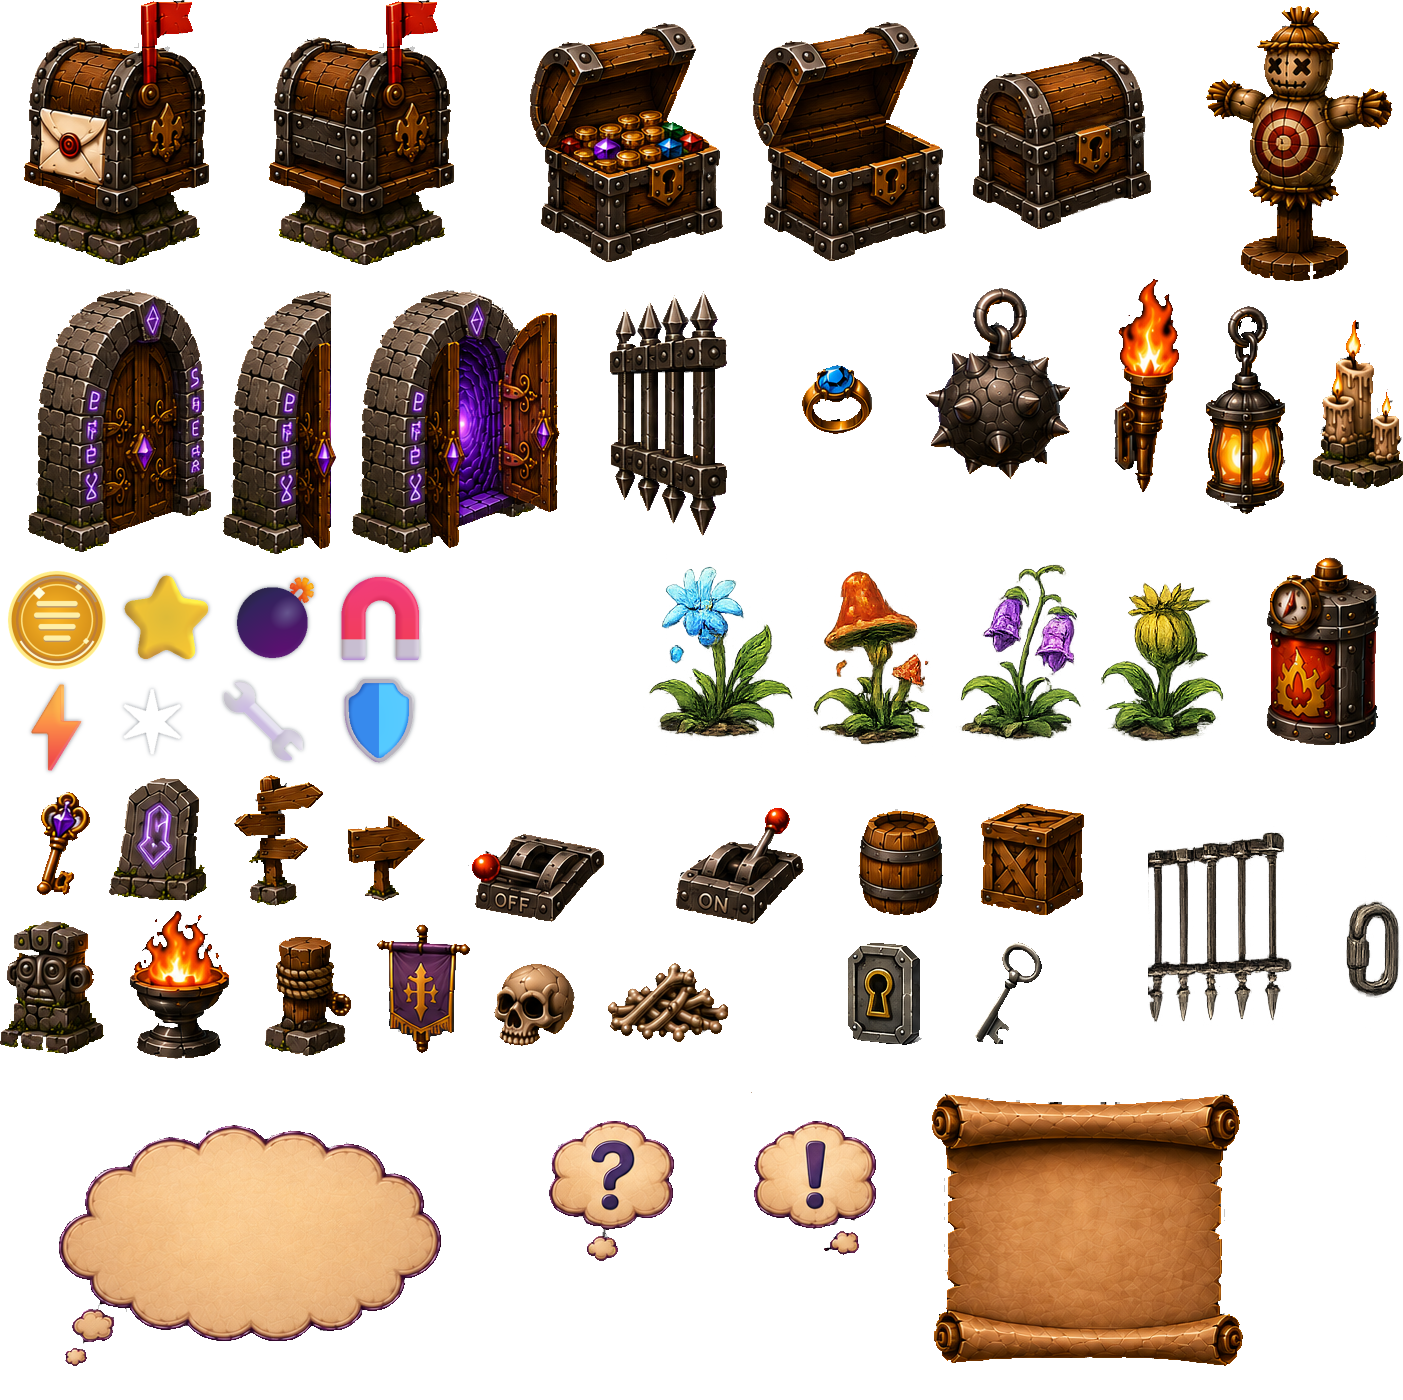
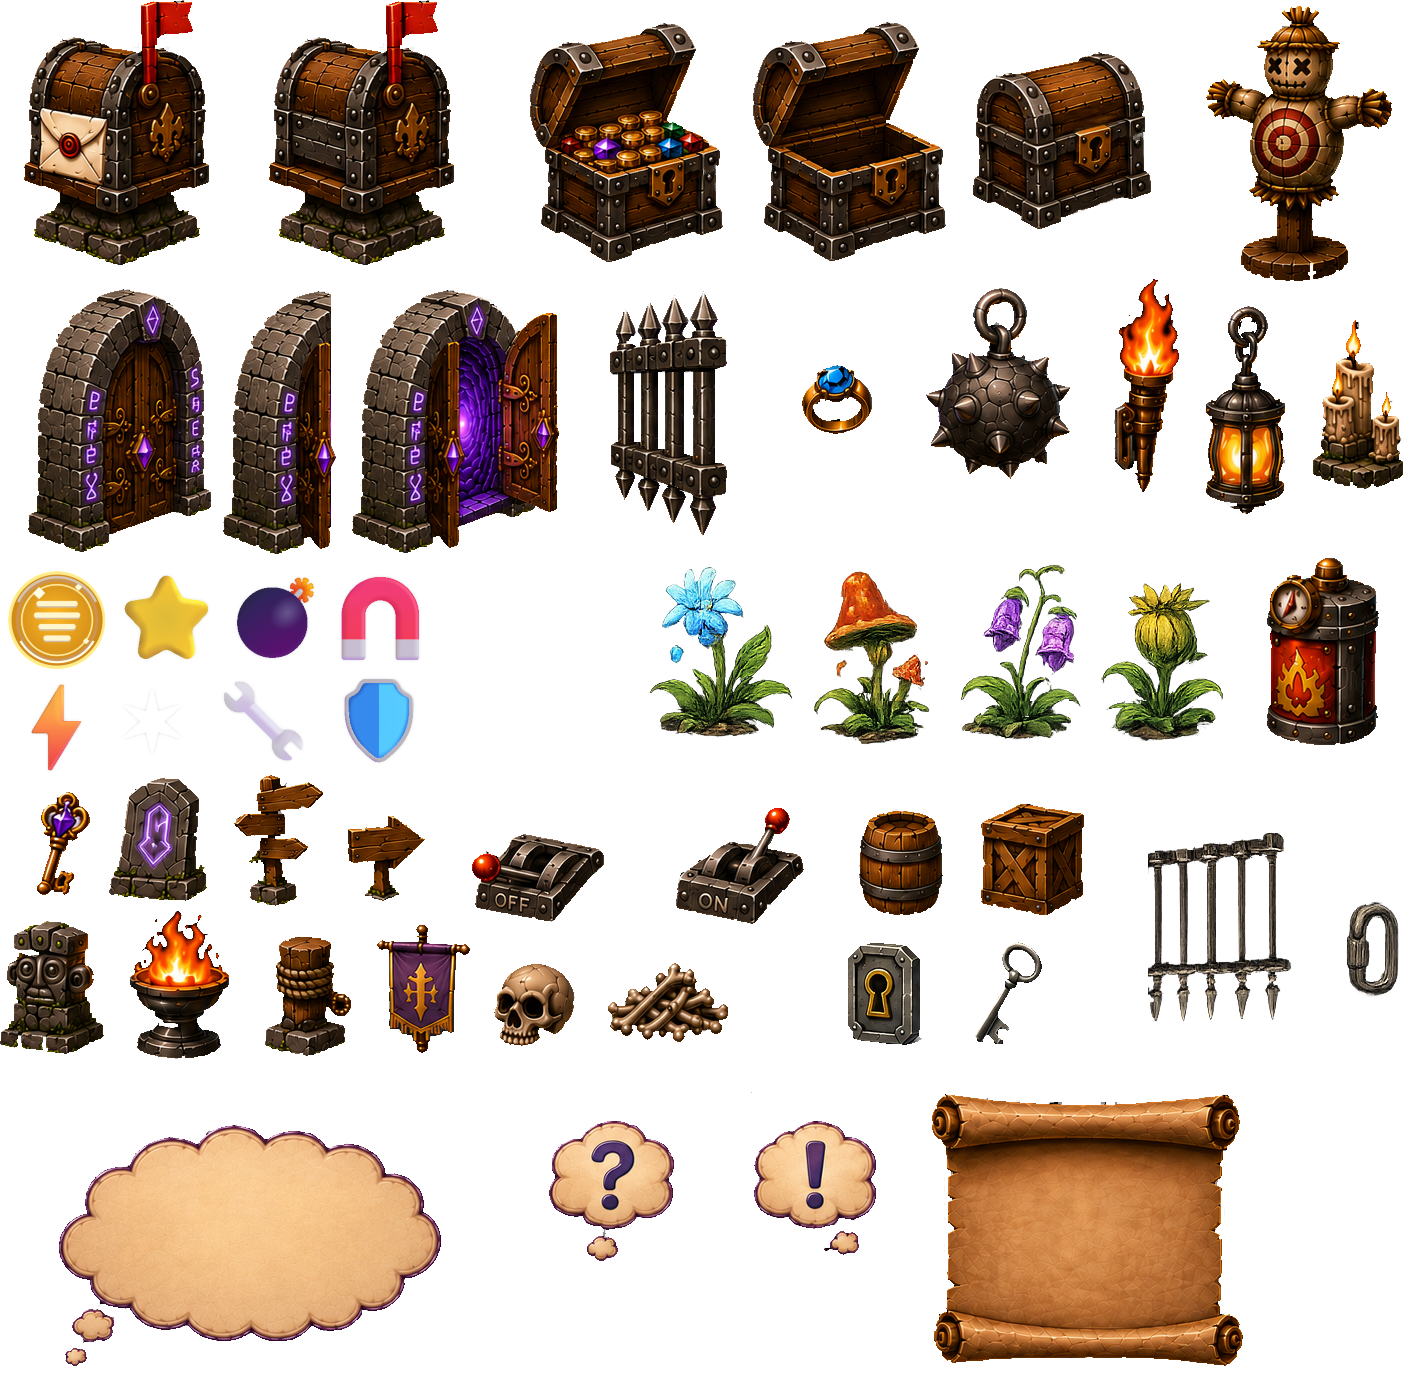
IR 223 and a minimal adjustment of door graphics

Changed region(s): [[0.0, 0.3993, 0.0919, 0.4914], [0.2145, 0.43, 0.2452, 0.4607]]

diff --git a/IgnatiusRocketfrock_JS/src/presentation/canvas-renderer.js b/IgnatiusRocketfrock_JS/src/presentation/canvas-renderer.js
@@ -23,7 +23,11 @@ import {
     colorMapCacheKey,
     normalizeLevelColorMap
 } from "../shared/level-color-map-data.js";
-import { powerUpEffectDefinition } from "../shared/power-up-data.js";
+import {
+    POWER_UP_EFFECT_IDS,
+    activePowerUpEffect,
+    powerUpEffectDefinition
+} from "../shared/power-up-data.js";
 import { createColorMappedCanvas } from "./level-color-map-cache.js";
 import { computeCaveWindowParallaxOffset, drawCaveWindowMask } from "./cave-window-mask.js";
 import {
@@ -283,6 +287,7 @@ export async function createRenderer(canvas, options = {}) {
     playerProject.rig = normalizeRigConfig(playerProject.rig);
     for (const asset of playerProject.assets.values()) {
         asset.lowHealthCanvas = makeTintedSpriteCanvas(asset.canvas, "#f04b45");
+        asset.shieldCanvas = makeTintedSpriteCanvas(asset.canvas, "#008cff");
     }
 
     const characterProjects = new Map();
@@ -2480,11 +2485,13 @@ class RocketfrockRenderer {
     }
 
     drawRigPose(screenX, screenGroundY, facing, pose, state, zoom, bounds, options = {}) {
-        const lowHealthTint = Number(options.alpha ?? 1) >= 0.99 ? getLowHealthTintAlpha(state) : 0;
+        const shieldTint = Number(options.alpha ?? 1) >= 0.99 ? getPlayerShieldTintAlpha(state) : 0;
+        const lowHealthTint = shieldTint > 0 || Number(options.alpha ?? 1) < 0.99 ? 0 : getLowHealthTintAlpha(state);
         const renderedTransforms = scalePoseTransforms(pose.transforms, options.renderScale);
         this.drawCharacterProjectPose(this.playerProject, screenX, screenGroundY, facing, renderedTransforms, bounds, {
             ...options,
-            tintAlpha: lowHealthTint,
+            tintAlpha: shieldTint > 0 ? shieldTint : lowHealthTint,
+            tintCanvasKey: shieldTint > 0 ? "shieldCanvas" : "lowHealthCanvas",
             afterPart: (partName, command) => {
                 if (partName === "rocket" && options.drawFuelBulb !== false) {
                     // Phase 1.011: attached boost exhaust is represented by world-managed smoke/spark puffs,
@@ -2507,8 +2514,8 @@ class RocketfrockRenderer {
         ctx.translate(screenX, screenGroundY);
         ctx.scale(facing, 1);
         for (const command of commands) {
-            const partTint = command.partName === "rocket" ? 0 : tintAlpha;
-            const spriteBounds = this.drawCharacterCommand(project, command, partTint);
+            const partTint = command.partName === "rocket" && options.tintCanvasKey !== "shieldCanvas" ? 0 : tintAlpha;
+            const spriteBounds = this.drawCharacterCommand(project, command, partTint, options.tintCanvasKey);
             mergeBounds(bounds, spriteBounds, screenX, screenGroundY, facing);
             options.afterPart?.(command.partName, command);
         }
@@ -2516,7 +2523,7 @@ class RocketfrockRenderer {
         return commands;
     }
 
-    drawCharacterCommand(project, command, tintAlpha = 0) {
+    drawCharacterCommand(project, command, tintAlpha = 0, tintCanvasKey = "lowHealthCanvas") {
         const { asset, transform, pivot, spriteScale, drawX, drawY, partName } = command;
         if (!asset || asset.missing || !transform) {
             return null;
@@ -2528,10 +2535,11 @@ class RocketfrockRenderer {
         ctx.rotate(transform.angle);
         ctx.scale(spriteScale, spriteScale);
         ctx.drawImage(asset.canvas, drawX, drawY);
-        if (tintAlpha > 0 && asset.lowHealthCanvas) {
+        const tintCanvas = asset[tintCanvasKey] || asset.lowHealthCanvas;
+        if (tintAlpha > 0 && tintCanvas) {
             const baseAlpha = ctx.globalAlpha;
             ctx.globalAlpha = baseAlpha * tintAlpha;
-            ctx.drawImage(asset.lowHealthCanvas, drawX, drawY);
+            ctx.drawImage(tintCanvas, drawX, drawY);
             ctx.globalAlpha = baseAlpha;
         }
         if (project.rig.global.debugPivots) {
@@ -2908,6 +2916,14 @@ function getPlayerHitFlash(state) {
     const envelope = 1 - age / duration;
     const flicker = Math.sin(age * 92) > -0.15 ? 1 : 0.28;
     return clamp(envelope * flicker, 0, 1);
+}
+
+function getPlayerShieldTintAlpha(state) {
+    if (!activePowerUpEffect(state, POWER_UP_EFFECT_IDS.SHIELD)) {
+        return 0;
+    }
+    const pulse = 0.5 + 0.5 * Math.sin((Number(state?.clock?.time) || 0) * 22);
+    return 0.22 + pulse * 0.58;
 }
 
 function getLowHealthTintAlpha(state) {

diff --git a/IgnatiusRocketfrock_JS/src/core/simulation.js b/IgnatiusRocketfrock_JS/src/core/simulation.js
@@ -19,7 +19,9 @@ import {
 } from "../shared/signal-channel-data.js";
 import { normalizeLevelMusic } from "../shared/music-data.js";
 import {
+    POWER_UP_EFFECT_IDS,
     WRENCH_POWER_UP_EFFECT_IDS,
+    activePowerUpEffect,
     activeWrenchPowerUpEffect,
     normalizeActivePowerUpEffect,
     normalizePowerUpPickup,
@@ -253,7 +255,7 @@ export function createInitialGameState(overrides = {}) {
     const state = {
         meta: {
             schemaVersion: 1,
-            build: "221-rebalanced-wrench-damage",
+            build: "223-shield-power-up",
             note: "Gameplay state only. Browser, canvas, image and renderer resources are deliberately outside gameState."
         },
         clock: {
@@ -2597,6 +2599,7 @@ export function applyEditorLevelToWorld(state, editorLevel) {
             "fuelPickup",
             "rocketOverdrivePickup",
             "speedShotPickup",
+            "shieldPickup",
             "randomWrenchPickup",
             "ornateKeyPickup",
             "ironKeyPickup",
@@ -2617,7 +2620,9 @@ export function applyEditorLevelToWorld(state, editorLevel) {
             ? randomPowerUpEffectId(state, entity.id || `random_powerup_${index + 1}`, randomEffectIds, randomRollCount)
             : null;
         const authoredEffectId = selectedRandomEffectId || entity.effectId ||
-            (type === "rocketOverdrivePickup" || type === "speedShotPickup" ? "speedShot" : null);
+            (type === "rocketOverdrivePickup" || type === "speedShotPickup"
+                ? POWER_UP_EFFECT_IDS.SPEED_SHOT
+                : (type === "shieldPickup" ? POWER_UP_EFFECT_IDS.SHIELD : null));
         const powerUp = authoredEffectId
             ? normalizePowerUpPickup({
                 ...entity,
@@ -8677,13 +8682,18 @@ export function damagePlayer(state, amount = 34, sourceId = "debug", options = {
     const damageScale = options.bypassDifficulty === true ? 1 : difficultyDamageScale(state.settings);
     const requestedDamage = baseDamage * damageScale;
     const before = clamp(Number(health.amount) || 0, 0, health.max);
-    const blocked = options.bypassInvulnerability !== true && (Number(health.invulnerabilityTimer) || 0) > 0;
+    const shielded = options.bypassInvulnerability !== true && Boolean(
+        activePowerUpEffect(state, POWER_UP_EFFECT_IDS.SHIELD)
+    );
+    const damageInvulnerable = options.bypassInvulnerability !== true && (Number(health.invulnerabilityTimer) || 0) > 0;
+    const blocked = shielded || damageInvulnerable;
     if (requestedDamage <= 0 || before <= 0 || blocked) {
         return {
             damage: 0,
             health: before,
             defeated: before <= 0,
-            blocked
+            blocked,
+            blockedBy: shielded ? "shield" : (damageInvulnerable ? "damageInvulnerability" : null)
         };
     }
 

diff --git a/IgnatiusRocketfrock_JS/GameManual.html b/IgnatiusRocketfrock_JS/GameManual.html
@@ -182,7 +182,8 @@
         <h2>Power-ups</h2>
         <ul>
             <li>Collected power-ups disappear and return after 60 seconds, so it can be worthwhile to revisit an earlier part of a level.</li>
-            <li>The top-left Power bar shows the highest-priority active effect and its remaining duration. Speed Shot is shown ahead of wrench effects, but both remain active at the same time.</li>
+            <li>The top-left Power bar shows the highest-priority active effect and its remaining duration. Shield is shown ahead of Speed Shot, which is shown ahead of wrench effects; all compatible effects remain active at the same time.</li>
+            <li><strong>Shield</strong> lasts 5 seconds and blocks all ordinary incoming damage. The pickup glows blue, and Ignatius flashes blue while protected. The blue flash takes priority over the red critical-health flash.</li>
             <li><strong>Speed Shot</strong> lasts 8 seconds. It doubles the rocket firing rate and halves the fuel cost of each launch.</li>
             <li>Wrench power-ups last 15 seconds and replace any other active wrench. A random wrench pickup chooses its type when the level starts and rolls a new type whenever it respawns.</li>
             <li>Rockets modified by a wrench carry a fuzzy outline in that wrench's colour, so the current payload remains visible even after launch.</li>
@@ -202,7 +203,7 @@
 
         <h2>Health</h2>
         <ul>
-            <li>Damage briefly grants invulnerability, shown by the health meter feedback.</li>
+            <li>Damage briefly grants invulnerability, shown by the health meter feedback. The Shield power-up grants a separate five-second invulnerability window and makes Ignatius flash blue.</li>
             <li>Health regenerates after a delay if Ignatius avoids further damage.</li>
             <li>Some hazards are damaging; explicitly lethal hazards may defeat Ignatius immediately.</li>
         </ul>

diff --git a/IgnatiusRocketfrock_JS/src/shared/power-up-data.js b/IgnatiusRocketfrock_JS/src/shared/power-up-data.js
@@ -1,5 +1,6 @@
 export const POWER_UP_EFFECT_IDS = Object.freeze({
     SPEED_SHOT: "speedShot",
+    SHIELD: "shield",
     // Compatibility alias for revision-211/212 data and saved snapshots.
     ROCKET_OVERDRIVE: "speedShot",
     WRENCH_TRIPLE: "wrenchTriple",
@@ -68,6 +69,24 @@ function wrenchEffect({ id, label, glowTint, rocket }) {
 }
 
 const BUILTIN_POWER_UP_EFFECTS = Object.freeze({
+    [POWER_UP_EFFECT_IDS.SHIELD]: Object.freeze({
+        version: 1,
+        id: POWER_UP_EFFECT_IDS.SHIELD,
+        label: "Shield",
+        durationSeconds: 5,
+        permanent: false,
+        stacking: POWER_UP_STACKING_RULES.REFRESH,
+        clearOnDeath: true,
+        groupId: null,
+        exclusiveGroup: false,
+        hud: Object.freeze({
+            iconFrame: "powerup_icon_shield",
+            glowFrame: "powerup_glow_white",
+            glowTint: "#008cff",
+            priority: 150
+        }),
+        rocket: DEFAULT_ROCKET_PROFILE
+    }),
     [POWER_UP_EFFECT_IDS.SPEED_SHOT]: Object.freeze({
         version: 1,
         id: POWER_UP_EFFECT_IDS.SPEED_SHOT,

diff --git a/IgnatiusRocketfrock_JS/src/browser/game-bootstrap.js b/IgnatiusRocketfrock_JS/src/browser/game-bootstrap.js
@@ -85,7 +85,7 @@ const renderingQualityButtons = [...document.querySelectorAll("[data-rendering-q
 const autoFullscreenRow = document.getElementById("auto-fullscreen-row");
 const autoFullscreenInput = document.getElementById("auto-fullscreen");
 
-const GAME_REVISION = "221";
+const GAME_REVISION = "223";
 
 let displayedLoadingProgress = 0;
 let activeCaveWindow = normalizeCaveWindow(null);

diff --git a/IgnatiusRocketfrock_JS/PLAN.md b/IgnatiusRocketfrock_JS/PLAN.md
@@ -2063,3 +2063,18 @@ The active catalog and every matching placement in `level_001.json` are rebalanc
 ## Revision 221 wrench volley damage rebalance
 
 Wrench damage remains derived from the shared 30-damage standard rocket. Triple now uses a one-half multiplier per projectile, producing three 15-damage rockets and 45 total volley damage when all three connect. Twin now uses a two-thirds multiplier per projectile, producing two 20-damage rockets and 40 total volley damage. Dart now deals standard 30-damage rocket damage while retaining its straight, faster, non-homing flight, first-impact explosion, and two-thirds fuel cost. Bigbomb remains at triple damage, 90, and Boomerang remains at 30.
+
+
+## Revision 222 archive repack
+
+Revision 222 is an unchanged repack of revision 221. It introduces no gameplay, data, presentation, or tool behavior and exists only as the supplied handoff archive.
+
+
+## Revision 223 Shield power-up and completion of the current power-up set
+
+The reserved shield emblem now defines a standalone five-second `shield` effect in `src/shared/power-up-data.js`. Shield refreshes rather than stacks, clears on death, coexists with Speed Shot and the current wrench, and has the highest Power HUD priority while active. Its pickup uses `powerup_icon_shield` over the shared white glow tinted blue (`#008cff`) and respawns after sixty seconds. Level 1 places the first Shield at x=1900 on the early main floor.
+
+Portable incoming-damage handling checks the active Shield before applying ordinary damage. Shielded hits leave health and damage-recovery state unchanged. Existing calls that explicitly set `bypassInvulnerability` remain authoritative for rules intended to be lethal regardless of temporary protection. Presentation precomputes a blue-tinted copy of each wizard part and pulses that overlay while Shield is active. The Shield overlay includes the backpack rocket and suppresses the ordinary red critical-health tint, so blue always wins when both conditions apply.
+
+The current power-up set is now complete: Shield, Speed Shot, and the five-mode wrench family. The bomb, magnet, and spark emblems remain intentionally unused until a later design decision explicitly reopens power-up work. The next milestone should be selected from the remaining non-power-up gameplay or content work after a focused Shield playtest confirms pickup placement, five-second readability, damage blocking, and blue-flash visibility.
+

diff --git a/IgnatiusRocketfrock_JS/ARCHITECTURE.md b/IgnatiusRocketfrock_JS/ARCHITECTURE.md
@@ -494,3 +494,18 @@ Sixty HP is the canonical fallback for a newly authored `characterEnemy`. Catalo
 ## Revision 221 multiplier-derived wrench damage rebalance
 
 Wrench projectile damage continues to use multipliers against `DEFAULT_TUNING.rocketProjectileDamage`, currently 30. Triple uses `0.5` per projectile for three 15-damage rockets and a 45-damage maximum volley. Twin uses `2 / 3` per projectile for two 20-damage rockets and a 40-damage maximum volley. Dart uses `1.0`, so its advantage is its straight, fast, inexpensive and predictable flight rather than extra impact damage. Bigbomb remains `3.0`, and Boomerang remains `1.0`.
+
+
+## Revision 222 archive repack boundary
+
+Revision 222 is a packaging-only handoff of revision 221 and does not alter any source, runtime, data, editor, or presentation contract.
+
+
+## Revision 223 Shield invulnerability contract
+
+Shield is an ordinary normalized timed effect owned by `src/shared/power-up-data.js`, with canonical ID `shield`, five-second duration, refresh stacking, clear-on-death behavior, no exclusive group, and HUD priority above Speed Shot and wrench effects. The Shield effect must not alter rocket multipliers, movement, fuel, collision, or enemy behavior. Catalog and level entities author only normalized pickup metadata: the shield icon, shared white glow, blue tint, duration, and respawn time.
+
+Damage authority remains in `src/core/simulation.js`. `damagePlayer` checks the active Shield through the shared effect API and blocks ordinary incoming damage before health, regeneration interruption, knockback, or post-hit invulnerability are changed. Callers that explicitly request `bypassInvulnerability` bypass both the short post-hit timer and Shield; this preserves intentionally lethal rules without adding hazard-specific Shield exceptions. Shield lifetime continues to advance through the generic status-effect update path and is serialized with the rest of portable state.
+
+The blue flash is presentation-only. `src/presentation/canvas-renderer.js` prepares reusable blue-tinted wizard-part canvases at character load, selects them while Shield is active, and varies only overlay alpha per frame. It must not create temporary tint surfaces or process pixels in the draw loop. The Shield tint applies to all wizard parts, including the backpack rocket, and takes precedence over the low-health red tint. Neither tint affects simulation or authored character assets.
+

diff --git a/IgnatiusRocketfrock_JS/IMPLEMENTATION_CHECKLIST.md b/IgnatiusRocketfrock_JS/IMPLEMENTATION_CHECKLIST.md
@@ -1888,3 +1888,24 @@ Revision 162 makes both root entry pages redirect directly to `game.html`. Cave-
 - [x] Update the game manual and architecture documentation.
 - [x] Update browser and portable build labels to revision 221.
 - [x] Pass the complete aggregate headless test suite.
+
+
+## Revision 222 archive repack
+
+- [x] Record revision 222 as an unchanged repack of revision 221 with no invented feature delta.
+
+
+## Revision 223 Shield power-up
+
+- [x] Define a five-second refreshable Shield effect with the reserved shield icon and a blue pickup glow.
+- [x] Let Shield coexist with Speed Shot and one active wrench while taking highest priority in the Power HUD.
+- [x] Block ordinary incoming damage in portable simulation while Shield is active.
+- [x] Preserve explicit `bypassInvulnerability` rules for intentionally lethal damage.
+- [x] Flash all wizard artwork blue while protected, including the backpack rocket.
+- [x] Suppress the red critical-health tint whenever the blue Shield flash is active.
+- [x] Add the Shield pickup to the interactive entity catalog and place it in level 1 at x=1900.
+- [x] Keep Shield pickup respawn at sixty seconds.
+- [x] Document that bomb, magnet, and spark remain intentionally unused and the current power-up milestone is complete.
+- [x] Update the game manual, architecture contract, plan, tests, and build labels to revision 223.
+- [x] Pass the complete aggregate headless test suite.
+
